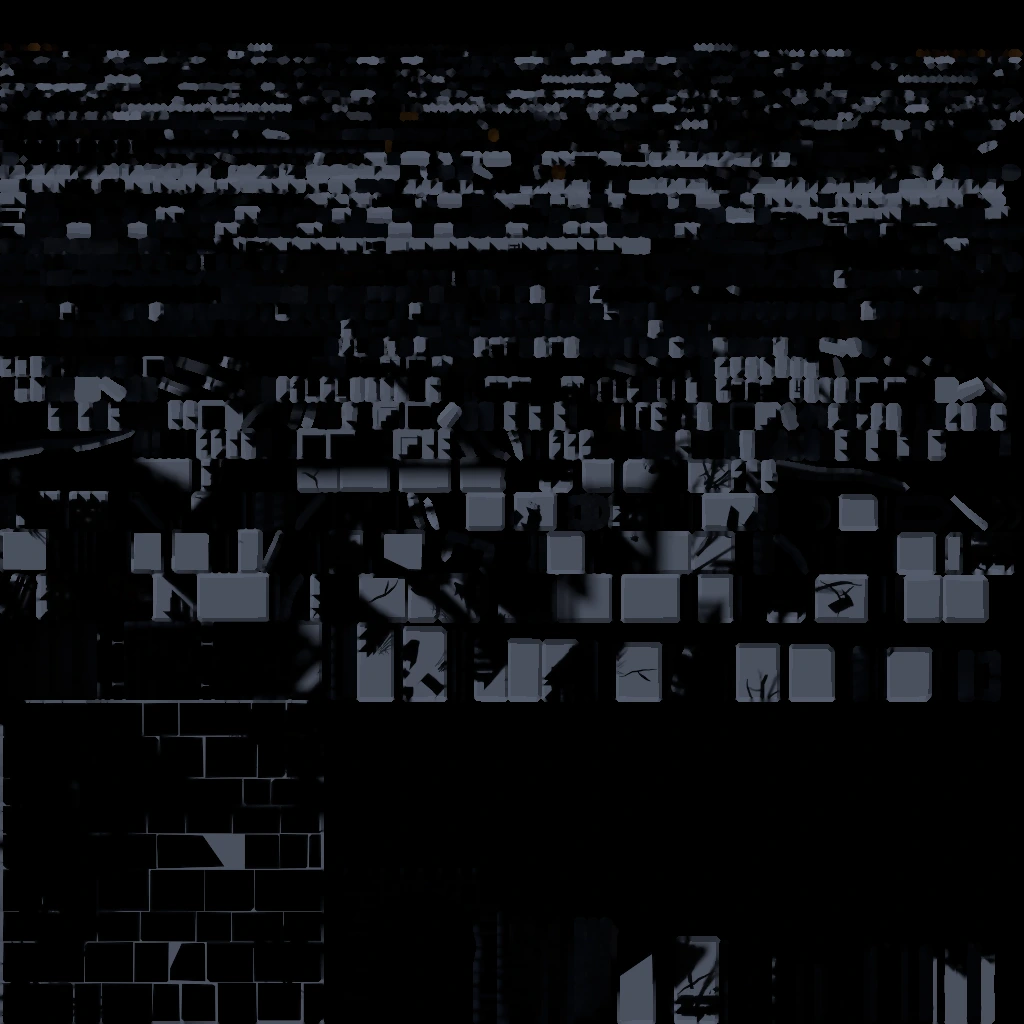
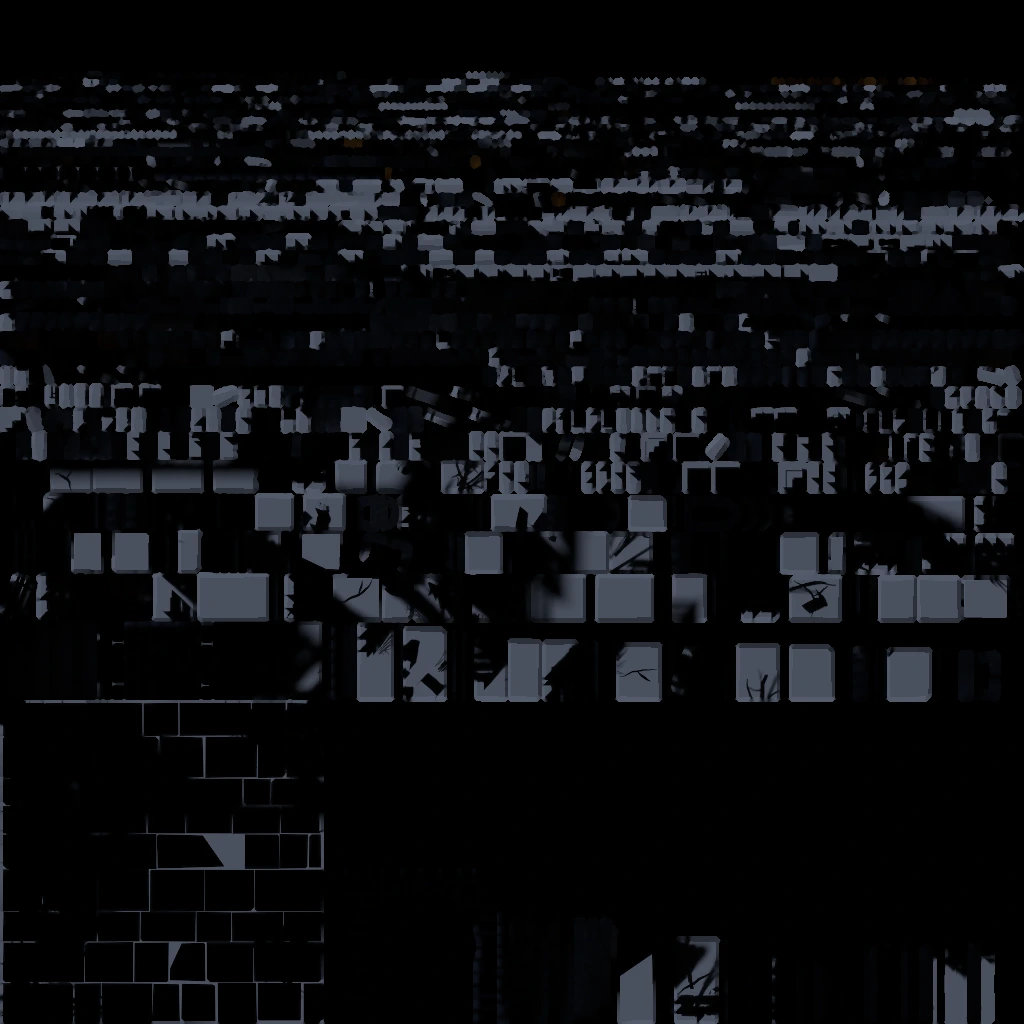
Rebake Region 1's Observatory and house rooms without the outside trees
Final quality on the laptop's CPU: three layouts, room and kit maps, 2 min 40 s.

diff --git a/apps/web/src/world/bake/manifest.ts b/apps/web/src/world/bake/manifest.ts
@@ -4,12 +4,12 @@
 export type BakeEntry = { id: string; size: number; signature: string; v: string };
 
 export const BAKES: Record<string, BakeEntry> = {
-  "0670dbe1": { id: "r1-house-d1", size: 1024, signature: "d108937c", v: "4884885e" },
-  bc6d5850: { id: "r1-house-d1-kit", size: 512, signature: "fb1ae253", v: "4e1d1eef" },
-  da8a522c: { id: "r1-observatory-d1", size: 1024, signature: "0b8f0644", v: "a1ad50fc" },
-  dfef8e58: { id: "r1-observatory-d1-kit", size: 512, signature: "652d6244", v: "2d53f6d6" },
-  "3be1830a": { id: "r1-observatory-d2", size: 1024, signature: "7bcc3a42", v: "ee7dd8ec" },
-  c7aa7418: { id: "r1-observatory-d2-kit", size: 512, signature: "63a753f2", v: "6d03f467" },
+  "6252c0bd": { id: "r1-house-d1", size: 1024, signature: "148990ea", v: "afcea80a" },
+  bc6d5850: { id: "r1-house-d1-kit", size: 512, signature: "fb1ae253", v: "8828eb42" },
+  e2e76f65: { id: "r1-observatory-d1", size: 1024, signature: "07915967", v: "f85209c1" },
+  dfef8e58: { id: "r1-observatory-d1-kit", size: 512, signature: "652d6244", v: "a2e6d467" },
+  abca2abb: { id: "r1-observatory-d2", size: 1024, signature: "85d5ab03", v: "c572699e" },
+  c7aa7418: { id: "r1-observatory-d2-kit", size: 512, signature: "63a753f2", v: "23bc8612" },
   a7eaf7e5: { id: "r2-hall-d4", size: 1024, signature: "a36ad05b", v: "b64fcad8" },
   "0bcffcd2": { id: "r2-hall-d4-kit", size: 512, signature: "8467f591", v: "b85ab5bf" },
   e2bfbc14: { id: "r2-hall-d5", size: 1024, signature: "8a9d8f63", v: "84d6ceb3" },
